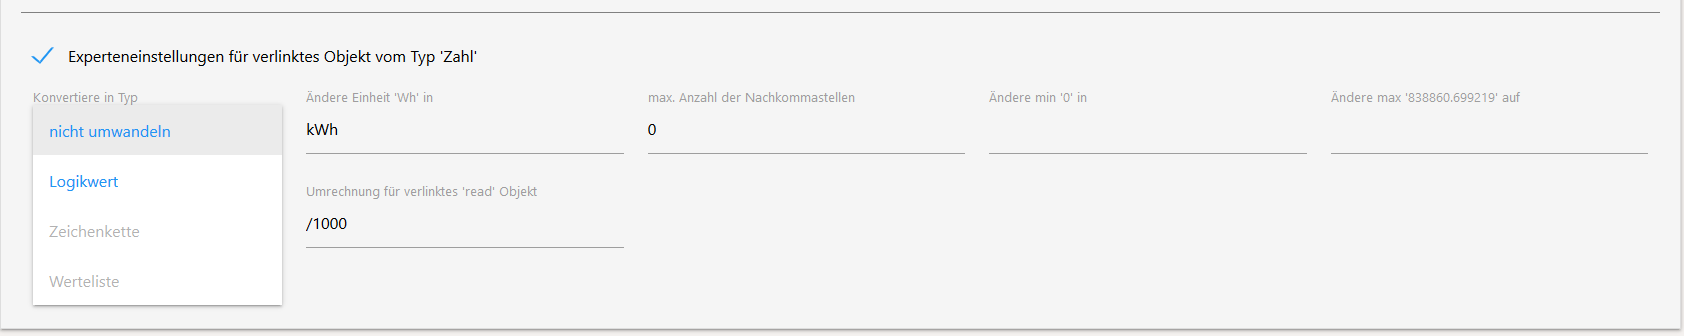
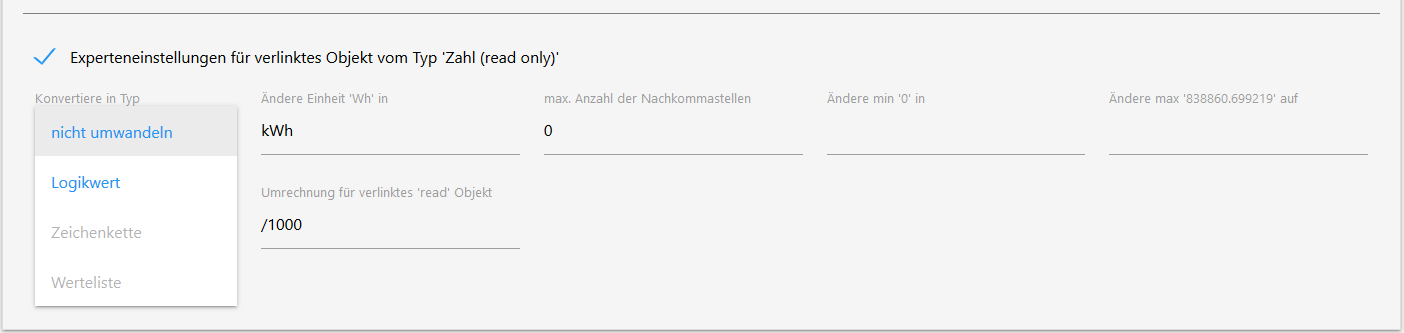
readme updated

diff --git a/admin/custom.js b/admin/custom.js
@@ -61,7 +61,10 @@ if (typeof customPostInits !== 'undefined') {
         var selectedBooleanConverter = "";
         if (values["boolean_convertTo"]) selectedBooleanConverter = values["boolean_convertTo"];
 
-        $div.find('input[id="test"]').val(JSON.stringify(currentObj));
+        // $div.find('input[id="test"]').val(JSON.stringify(currentObj));
+        //$div.find('input[id="test"]').val(Object.keys(gMain));
+
+        $div.find('input[id="test"]').val(gMain.systemConfig.common.language);
 
         $div.ready(function () {
             //$div.find('.view_Number').hide();
@@ -191,7 +194,13 @@ if (typeof customPostInits !== 'undefined') {
             if (isCustomEnabled && (type === 'number' || type === 'string' || type === 'boolean')) {
                 // Experteneinstellungen anzeigen, sofern für type vorhanden
                 Group.expertSettings.show();
-                Label.expertSettings.text(_("expert settings for linked object with type '%s'", _(currentObj.common.type)));
+
+                if(type === 'number' && currentObj.common.write === false){
+                    Label.expertSettings.text(_("expert settings for linked object with type '%s'", _(currentObj.common.type) + " (read only)"));
+                }else{
+                    Label.expertSettings.text(_("expert settings for linked object with type '%s'", _(currentObj.common.type)));
+                }
+                
 
                 // Views initalisieren
                 initialize_ExpertSettings_Number();
